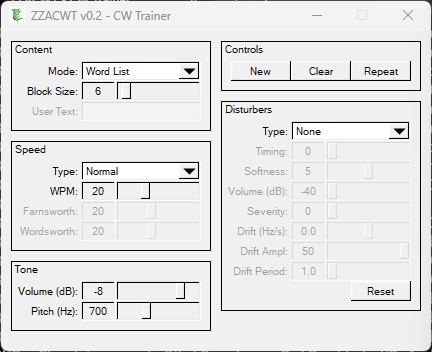
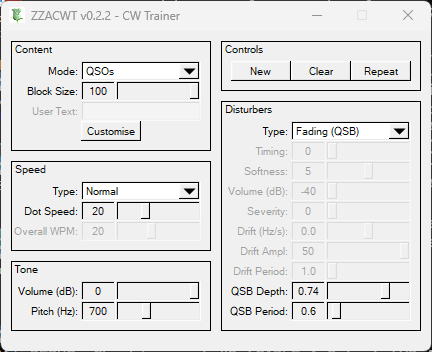
Added fade/flutter feature. Updated images.

diff --git a/src/user_if.cpp b/src/user_if.cpp
@@ -320,10 +320,22 @@ void user_if::create_widgets() {
 	sl_drift_period_->align(FL_ALIGN_LEFT);
 
 	cy += HBUTTON;
-	cx = g_disturber_->x() + g_disturber_->w() - WBUTTON - GAP;
-	bt_default_ = new Fl_Button(cx, cy, WBUTTON, HBUTTON, "Reset");
-	bt_default_->callback(cb_default, this);
-	bt_default_->tooltip("Reset disturber values to default");
+	sl_fading_depth_ = new Fl_Value_Slider(cx, cy, WSMEDIT, HBUTTON, "QSB Depth:");	
+	sl_fading_depth_->type(FL_HOR_SLIDER);
+	sl_fading_depth_->bounds(0, 1.0);
+	sl_fading_depth_->step(0.01);
+	sl_fading_depth_->callback(cb_fading_depth, this);
+	sl_fading_depth_->tooltip("Adjusts the depth of fading (0 = no fading, 1 = full fade out)");
+	sl_fading_depth_->align(FL_ALIGN_LEFT);
+
+	cy += HBUTTON;
+	sl_fading_period_ = new Fl_Value_Slider(cx, cy, WSMEDIT, HBUTTON, "QSB Period:");
+	sl_fading_period_->type(FL_HOR_SLIDER);
+	sl_fading_period_->bounds(0.1, 10.0);
+	sl_fading_period_->step(0.1);
+	sl_fading_period_->callback(cb_fading_period, this);
+	sl_fading_period_->tooltip("Adjusts the period of fading (in seconds)");
+	sl_fading_period_->align(FL_ALIGN_LEFT);
 
 	cy += HBUTTON + GAP;
 
@@ -448,8 +460,8 @@ void user_if::update_disturber_widgets() {
 	sl_noise_severity_->value(noise_severity);
 
 	// Get drift rate setting
-	int drift_rate;
-	settings.get("Drift Rate", drift_rate, 0);
+	float drift_rate;
+	settings.get("Drift Rate", drift_rate, 0.0F);
 	sl_drift_rate_->value(drift_rate);
 
 	// Get drift amplitude setting
@@ -468,6 +480,22 @@ void user_if::update_disturber_widgets() {
 	sl_drift_period_->value(drift_period);
 	settings.set("Drift Period", drift_period);
 
+	// Get fading depth setting
+	float fading_depth;
+	settings.get("Fading Depth", fading_depth, 0.0F);
+	if (fading_depth < 0.0F) fading_depth = 0.0F;
+	else if (fading_depth > 1.0F) fading_depth = 1.0F;
+	sl_fading_depth_->value(fading_depth);
+	settings.set("Fading Depth", fading_depth);
+
+	// Get fading period setting
+	float fading_period;
+	settings.get("Fading Period", fading_period, 1.0F);
+	if (fading_period < 0.1F) fading_period = 0.1F;
+	else if (fading_period > 10.0F) fading_period = 10.0F;
+	sl_fading_period_->value(fading_period);
+	settings.set("Fading Period", fading_period);
+
 	// Depending on the disturber type, enable/disable the relevant sliders
 	switch (current_disturber_type) {
 	case disturber_type::NONE:
@@ -478,6 +506,8 @@ void user_if::update_disturber_widgets() {
 		sl_drift_rate_->deactivate();
 		sl_drift_amplitude_->deactivate();
 		sl_drift_period_->deactivate();
+		sl_fading_depth_->deactivate();
+		sl_fading_period_->deactivate();
 		break;
 	case disturber_type::TIMING:
 		sl_timing_dist_->activate();
@@ -487,6 +517,8 @@ void user_if::update_disturber_widgets() {
 		sl_drift_rate_->deactivate();
 		sl_drift_amplitude_->deactivate();
 		sl_drift_period_->deactivate();
+		sl_fading_depth_->deactivate();
+		sl_fading_period_->deactivate();
 		break;
 	case disturber_type::SOFTNESS:
 		sl_timing_dist_->deactivate();
@@ -496,6 +528,8 @@ void user_if::update_disturber_widgets() {
 		sl_drift_rate_->deactivate();
 		sl_drift_amplitude_->deactivate();
 		sl_drift_period_->deactivate();
+		sl_fading_depth_->deactivate();
+		sl_fading_period_->deactivate();
 		break;
 	case disturber_type::NOISE_WHITE:
 		sl_timing_dist_->deactivate();
@@ -505,6 +539,8 @@ void user_if::update_disturber_widgets() {
 		sl_drift_rate_->deactivate();
 		sl_drift_amplitude_->deactivate();
 		sl_drift_period_->deactivate();
+		sl_fading_depth_->deactivate();
+		sl_fading_period_->deactivate();
 		break;
 	case disturber_type::NOISE_IMPACT:
 		sl_timing_dist_->deactivate();
@@ -514,6 +550,8 @@ void user_if::update_disturber_widgets() {
 		sl_drift_rate_->deactivate();
 		sl_drift_amplitude_->deactivate();
 		sl_drift_period_->deactivate();
+		sl_fading_depth_->deactivate();
+		sl_fading_period_->deactivate();
 		break;
 	case disturber_type::NOISE_TONES:
 		sl_timing_dist_->deactivate();
@@ -523,6 +561,8 @@ void user_if::update_disturber_widgets() {
 		sl_drift_rate_->deactivate();
 		sl_drift_amplitude_->deactivate();
 		sl_drift_period_->deactivate();
+		sl_fading_depth_->deactivate();
+		sl_fading_period_->deactivate();
 		break;
 	case disturber_type::DRIFT_STEADY:
 		sl_timing_dist_->deactivate();
@@ -532,6 +572,8 @@ void user_if::update_disturber_widgets() {
 		sl_drift_rate_->activate();
 		sl_drift_amplitude_->deactivate();
 		sl_drift_period_->deactivate();
+		sl_fading_depth_->deactivate();
+		sl_fading_period_->deactivate();
 		break;
 	case disturber_type::DRIFT_CYCLIC:
 		sl_timing_dist_->deactivate();
@@ -541,6 +583,19 @@ void user_if::update_disturber_widgets() {
 		sl_drift_rate_->deactivate();
 		sl_drift_amplitude_->activate();
 		sl_drift_period_->activate();
+		sl_fading_depth_->deactivate();
+		sl_fading_period_->deactivate();
+		break;
+	case disturber_type::FADING:
+		sl_timing_dist_->deactivate();
+		sl_softness_->deactivate();
+		sl_noise_vol_->deactivate();
+		sl_noise_severity_->deactivate();
+		sl_drift_rate_->deactivate();
+		sl_drift_amplitude_->deactivate();
+		sl_drift_period_->deactivate();
+		sl_fading_depth_->activate();
+		sl_fading_period_->activate();
 		break;
 	}
 }
@@ -746,7 +801,7 @@ void user_if::cb_drift_rate(Fl_Widget* w, void* data)
 	Fl_Value_Slider* sl = static_cast<Fl_Value_Slider*>(w);
 	user_if* ui = static_cast<user_if*>(data);
 	zc_settings settings;
-	int drift_rate = static_cast<int>(sl->value());
+	float drift_rate = sl->value();
 	settings.set("Drift Rate", drift_rate);
 	ui->update_disturber_widgets();
 	ui->apply_oscillator_settings(); // Apply oscillator settings immediately to reflect drift rate changes
@@ -770,10 +825,34 @@ void user_if::cb_drift_period(Fl_Widget* w, void* data)
 	Fl_Value_Slider* sl = static_cast<Fl_Value_Slider*>(w);
 	user_if* ui = static_cast<user_if*>(data);
 	zc_settings settings;
-	int drift_period = static_cast<int>(sl->value());
+	float drift_period = sl->value();
 	settings.set("Drift Period", drift_period);
 	ui->update_disturber_widgets();
 	ui->apply_oscillator_settings(); // Apply oscillator settings immediately to reflect drift period changes
+}
+
+void user_if::cb_fading_depth(Fl_Widget* w, void* data)
+{
+	// Save the fading depth value to settings
+	Fl_Value_Slider* sl = static_cast<Fl_Value_Slider*>(w);
+	user_if* ui = static_cast<user_if*>(data);
+	zc_settings settings;
+	float fading_depth = sl->value();
+	settings.set("Fading Depth", fading_depth);
+	ui->update_disturber_widgets();
+	ui->apply_oscillator_settings(); // Apply oscillator settings immediately to reflect fading depth changes
+}
+
+void user_if::cb_fading_period(Fl_Widget* w, void* data)
+{
+	// Save the fading period value to settings
+	Fl_Value_Slider* sl = static_cast<Fl_Value_Slider*>(w);
+	user_if* ui = static_cast<user_if*>(data);
+	zc_settings settings;
+	float fading_period = sl->value();
+	settings.set("Fading Period", fading_period);
+	ui->update_disturber_widgets();
+	ui->apply_oscillator_settings(); // Apply oscillator settings immediately to reflect fading period changes
 }
 
 void user_if::cb_default(Fl_Widget* w, void* data)

diff --git a/src/oscillator.cpp b/src/oscillator.cpp
@@ -57,9 +57,12 @@ void oscillator::apply_settings() {
 	settings.get("Drift Rate", drift_rate_, 0.0F);
 	settings.get("Drift Amplitude", drift_amplitude_, 0.0F);
 	settings.get("Drift Period", drift_period_, 1.0F);
+	settings.get("Fading Period", fading_period, 0.0F);
+	settings.get("Fading Depth", fading_amplitude_, 0.0F);
 	// Reset drift state when settings are applied
 	current_drift_offset_ = 0.0F;
 	drift_phase_accumulator_ = 0.0F;
+	fading_phase_accumulator_ = 0.0F;
 }
 
 //! \brief Generation loop for the oscillator thread
@@ -97,8 +100,10 @@ float oscillator::next_sample() {
 	if (phase_accumulator_ >= 2.0F * PI) {
 		phase_accumulator_ -= 2.0F * PI;
 	}
+	// Apply fading multiplier to the output sample
+	float fading_multiplier = update_fading_and_get_multiplier();
 	// Return the sine of the phase accumulator as the output sample value
-	return std::sin(phase_accumulator_) * output_level_;
+	return std::sin(phase_accumulator_) * output_level_ * fading_multiplier;
 }
 
 //! \brief Update the current drift offset based on the selected 
@@ -106,7 +111,8 @@ float oscillator::next_sample() {
 float oscillator::update_drift_and_get_frequency() {
 	switch (current_disturber_) {
 	case disturber_type::DRIFT_STEADY:
-		current_drift_offset_ += drift_rate_ * sample_delta_time_;
+		// drift rate is in % current frequency (pitch + offset) per second.
+		current_drift_offset_ += (drift_rate_ * 0.01 * (base_pitch_ + current_drift_offset_) * sample_delta_time_);
 		break;
 	case disturber_type::DRIFT_CYCLIC:
 		drift_phase_accumulator_ += 2.0F * PI * sample_delta_time_ / drift_period_;
@@ -120,4 +126,16 @@ float oscillator::update_drift_and_get_frequency() {
 		break;
 	}
 	return base_pitch_ + current_drift_offset_;
+}
+
+//! \brief Update the current fading level based on the fading settings and return the current fading multiplier (0 to 1) to apply to the output sample.
+float oscillator::update_fading_and_get_multiplier() {
+	if (current_disturber_ != disturber_type::FADING) {
+		return 1.0F; // No fading, so multiplier is 1
+	}
+	fading_phase_accumulator_ += 2.0F * PI * sample_delta_time_ / fading_period;
+	if (fading_phase_accumulator_ >= 2.0F * PI) {
+		fading_phase_accumulator_ -= 2.0F * PI;
+	}
+	return 1.0F - (fading_amplitude_ * (0.5F * (1 - std::cos(fading_phase_accumulator_)))); // Fading multiplier based on a cosine wave
 }

diff --git a/include/oscillator.hpp b/include/oscillator.hpp
@@ -110,6 +110,15 @@ private:
 	//! (base pitch plus drift) for the current sample.
 	float update_drift_and_get_frequency();
 
+	//! Fading parameters - period  in seconds.
+	float fading_period = 0.0F; 
+	//! Current fading phase accumulator (in radians).
+	float fading_phase_accumulator_ = 0.0F;
+	//! fading amplitude (0 to 1).
+	float fading_amplitude_ = 0.0F;
+	//! Update the current fading level based on the fading settings and return the current fading multiplier (0 to 1) to apply to the output sample.
+	float update_fading_and_get_multiplier();
+
 	//! Thread for generating audio samples.
 	std::thread generation_thread_;
 	//! Flag to signal the generation thread to stop.

diff --git a/include/params.hpp b/include/params.hpp
@@ -89,6 +89,7 @@ enum class disturber_type
 	NOISE_TONES,  //!< Tones noise disturbance ("plinks")
 	DRIFT_STEADY,        //!< Frequency drift disturbance
 	DRIFT_CYCLIC,        //!< Cyclic frequency drift disturbance
+	FADING,               //!< Fading disturbance (signal strength varies over time)
 	COUNT         //!< Number of disturber types
 };
 //! Map disturber type enum to displayed strings
@@ -100,7 +101,8 @@ static inline const std::map<disturber_type, std::string> disturber_type_strings
 	{disturber_type::NOISE_IMPACT, "Impact Noise"},
 	{disturber_type::NOISE_TONES, "Tones (Plinks)"},
 	{disturber_type::DRIFT_STEADY, "Frequency Drift"},
-	{disturber_type::DRIFT_CYCLIC, "Cyclic Drift"}
+	{disturber_type::DRIFT_CYCLIC, "Cyclic Drift"},
+	{disturber_type::FADING, "Fading (QSB)"},
 };
 
 

diff --git a/include/user_if.hpp b/include/user_if.hpp
@@ -54,6 +54,8 @@ public:
 	static void cb_drift_rate(Fl_Widget* w, void* data);
 	static void cb_drift_amplitude(Fl_Widget* w, void* data);
 	static void cb_drift_period(Fl_Widget* w, void* data);
+	static void cb_fading_period(Fl_Widget* w, void* data);
+	static void cb_fading_depth(Fl_Widget* w, void* data);
 	static void cb_default(Fl_Widget* w, void* data);
 	static void cb_volume(Fl_Widget* w, void* data);
 	static void cb_pitch(Fl_Widget* w, void* data);
@@ -86,6 +88,8 @@ private:
 	Fl_Value_Slider* sl_drift_rate_;    //!< Frequency drift rate slider
 	Fl_Value_Slider* sl_drift_amplitude_;   //!< Frequency drift amplitude slider
 	Fl_Value_Slider* sl_drift_period_;  //!< Frequency drift period slider
+	Fl_Value_Slider* sl_fading_period_;  //!< Fading period slider
+	Fl_Value_Slider* sl_fading_depth_;   //!< Fading depth slider
 	Fl_Button* bt_default_;             //!< Reset default values
 
 	Fl_Group* g_tone_;                  //!< Group for volume and pitch of tone